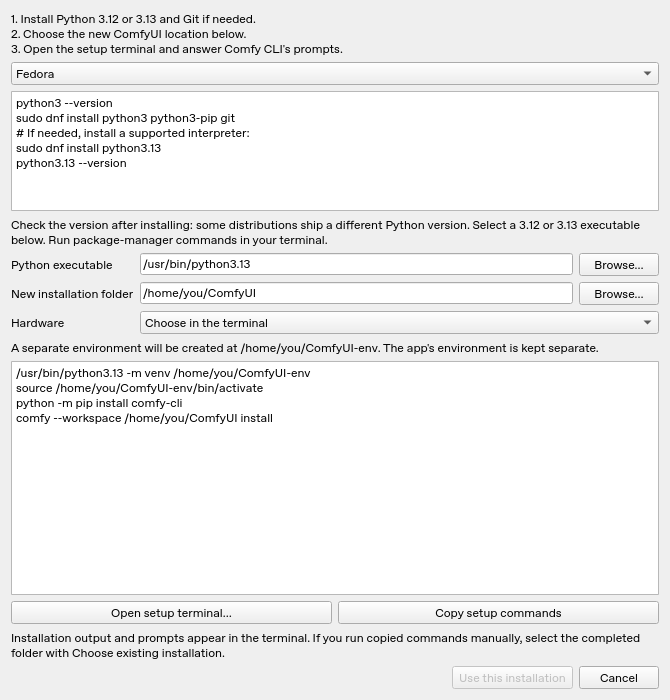
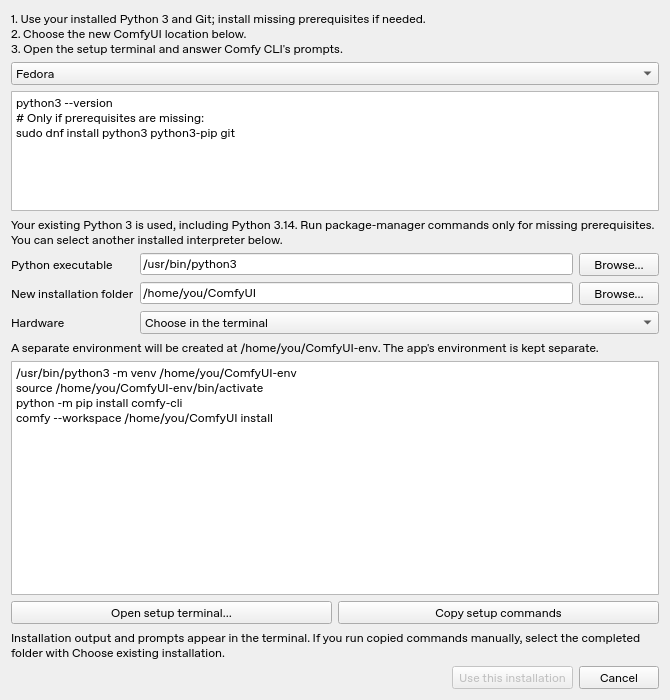
Reuse installed Python 3 including Python 3.14 during setup

diff --git a/comfyui_control/setup.py b/comfyui_control/setup.py
@@ -17,9 +17,9 @@ from .config import Config, config_path, expand
 
 
 PYTHON_COMMANDS = {
-    "Fedora": "python3 --version\nsudo dnf install python3 python3-pip git\n# If needed, install a supported interpreter:\nsudo dnf install python3.13\npython3.13 --version",
-    "Ubuntu / Debian": "python3 --version\nsudo apt update\nsudo apt install python3 python3-pip python3-venv git -y",
-    "Arch Linux": "python3 --version\nsudo pacman -S python python-pip git",
+    "Fedora": "python3 --version\n# Only if prerequisites are missing:\nsudo dnf install python3 python3-pip git",
+    "Ubuntu / Debian": "python3 --version\n# Only if prerequisites are missing:\nsudo apt update\nsudo apt install python3 python3-pip python3-venv git -y",
+    "Arch Linux": "python3 --version\n# Only if prerequisites are missing:\nsudo pacman -S python python-pip git",
 }
 
 
@@ -41,7 +41,7 @@ class InstallPlan:
         if self.environment.exists() or self.environment.is_symlink():
             raise ValueError("The companion environment folder already exists. Choose another installation folder name.")
         if not self.python.strip() or not shutil.which(self.python):
-            raise ValueError("Select an installed Python 3.12 or 3.13 executable. See the Python installation commands above.")
+            raise ValueError("Select an installed Python 3 executable. Use the package commands above if Python is missing.")
         if self.gpu not in ("", "--nvidia", "--amd", "--cpu"):
             raise ValueError("Unknown GPU installation option.")
 
@@ -62,7 +62,7 @@ class InstallPlan:
             f"SETUP_PYTHON={shlex.quote(self.python)}\n"
             f"SETUP_RESULT={shlex.quote(str(result_path))}\n\n"
             '"$SETUP_PYTHON" -c \'import sys; print(sys.version); '
-            'sys.exit(0 if sys.version_info[:2] in ((3, 12), (3, 13)) else "Select Python 3.12 or 3.13 and retry.")\'\n'
+            'sys.exit(0 if sys.version_info[0] == 3 else "Select a Python 3 executable and retry.")\'\n'
             'command -v git >/dev/null || { echo "Install Git with your distribution package manager first." >&2; exit 1; }\n'
             'if [[ -e "$COMFYUI_DIR" || -L "$COMFYUI_DIR" || -e "$COMFY_ENV" || -L "$COMFY_ENV" ]]; then\n'
             '  echo "Installation or environment folder already exists. Choose a new location." >&2\n'
@@ -131,7 +131,7 @@ class InstallDialog(QDialog):
         self.result_path = None
         self.script_path = None
         layout = QVBoxLayout(self)
-        introduction = QLabel("1. Install Python 3.12 or 3.13 and Git if needed.\n2. Choose the new ComfyUI location below.\n3. Open the setup terminal and answer Comfy CLI's prompts.")
+        introduction = QLabel("1. Use your installed Python 3 and Git; install missing prerequisites if needed.\n2. Choose the new ComfyUI location below.\n3. Open the setup terminal and answer Comfy CLI's prompts.")
         introduction.setWordWrap(True)
         layout.addWidget(introduction)
         self.distro = QComboBox()
@@ -141,11 +141,11 @@ class InstallDialog(QDialog):
         self.package_commands.setReadOnly(True)
         self.package_commands.setMaximumHeight(120)
         layout.addWidget(self.package_commands)
-        note = QLabel("Check the version after installing: some distributions ship a different Python version. Select a 3.12 or 3.13 executable below. Run package-manager commands in your terminal.")
+        note = QLabel("Your existing Python 3 is used, including Python 3.14. Run package-manager commands only for missing prerequisites. You can select another installed interpreter below.")
         note.setWordWrap(True)
         layout.addWidget(note)
         form = QFormLayout()
-        self.python = QLineEdit(shutil.which("python3.13") or shutil.which("python3.12") or "python3")
+        self.python = QLineEdit(shutil.which("python3") or "python3")
         self.location = QLineEdit(str(Path.home() / "ComfyUI"))
         self.location.setPlaceholderText("New ComfyUI installation folder")
         self.gpu = QComboBox()
@@ -201,7 +201,7 @@ class InstallDialog(QDialog):
         return row
 
     def _browse_python(self):
-        path, _ = QFileDialog.getOpenFileName(self, "Select Python 3.12 or 3.13 executable", "/usr/bin")
+        path, _ = QFileDialog.getOpenFileName(self, "Select installed Python 3 executable", "/usr/bin")
         if path:
             self.python.setText(path)
 

diff --git a/tests/test_setup.py b/tests/test_setup.py
@@ -13,12 +13,16 @@ from comfyui_control.setup import InstallDialog, InstallPlan, PYTHON_COMMANDS, W
 
 @pytest.fixture
 def fake_python(tmp_path):
-    executable = tmp_path / "python3.13"
+    executable = tmp_path / "python3"
     executable.write_text(
         f"#!{sys.executable}\n"
         "import json, os, pathlib, shlex, shutil, sys\n"
         "args = sys.argv[1:]\n"
-        "if args[:2] == ['-m', 'venv']:\n"
+        "if args[:1] == ['-c']:\n"
+        "    sys.version = '3.14.8 (simulated interpreter)'\n"
+        "    sys.version_info = (3, 14, 8)\n"
+        "    exec(args[1])\n"
+        "elif args[:2] == ['-m', 'venv']:\n"
         "    env = pathlib.Path(args[2])\n"
         "    (env / 'bin').mkdir(parents=True)\n"
         "    for name in ('python', 'comfy'):\n"
@@ -46,7 +50,7 @@ def fake_python(tmp_path):
     return executable
 
 
-def test_setup_runs_venv_pip_and_comfy_at_chosen_location(tmp_path, fake_python):
+def test_setup_accepts_python314_and_runs_venv_pip_and_comfy(tmp_path, fake_python):
     target = tmp_path / "Folder with 'quotes' $dollars `backticks`"
     plan = InstallPlan(target, str(fake_python), "--amd")
     plan.validate()
@@ -54,7 +58,8 @@ def test_setup_runs_venv_pip_and_comfy_at_chosen_location(tmp_path, fake_python)
     script = tmp_path / "setup.sh"
     script.write_text(plan.script(result_path))
     subprocess.run(["bash", "-n", str(script)], check=True)
-    subprocess.run(["bash", str(script)], check=True, capture_output=True, text=True)
+    completed = subprocess.run(["bash", str(script)], check=True, capture_output=True, text=True)
+    assert "3.14.8" in completed.stdout
     assert (target / "main.py").is_file()
     assert plan.environment.parent == target.parent
     assert not plan.environment.is_relative_to(target)
@@ -80,9 +85,9 @@ def test_setup_refuses_existing_installation_without_touching_it(tmp_path, fake_
     assert not result.exists()
 
 
-def test_unsupported_python_stops_before_creating_folders(tmp_path):
+def test_python2_stops_before_creating_folders(tmp_path):
     executable = tmp_path / "python3"
-    executable.write_text("#!/bin/sh\necho 'Select Python 3.12 or 3.13' >&2\nexit 1\n")
+    executable.write_text(f"#!{sys.executable}\nimport sys\nsys.version = '2.7.18'\nsys.version_info = (2, 7, 18)\nexec(sys.argv[2])\n")
     executable.chmod(0o700)
     plan = InstallPlan(tmp_path / "ComfyUI", str(executable))
     result = tmp_path / "result.json"
@@ -157,3 +162,12 @@ def test_distro_instructions_include_fedora_dnf(app):
     assert "sudo dnf install" in dialog.package_commands.toPlainText()
     dialog.distro.setCurrentText("Arch Linux")
     assert "sudo pacman" in dialog.package_commands.toPlainText()
+
+
+def test_setup_prefers_existing_python3_over_version_specific_interpreters(app):
+    def which(name):
+        return {"python3": "/usr/bin/python3", "python3.13": "/usr/bin/python3.13"}.get(name)
+    with patch("comfyui_control.setup.shutil.which", side_effect=which):
+        dialog = InstallDialog()
+    assert dialog.python.text() == "/usr/bin/python3"
+    assert "python3.13" not in dialog.package_commands.toPlainText()

diff --git a/README.md b/README.md
@@ -47,19 +47,18 @@ Keep your existing environment activation and flags if you already have them. `e
 
 ### Install a new ComfyUI with Comfy CLI
 
-The startup installer shows Python commands for Fedora, Ubuntu/Debian, and Arch Linux. Its workflow uses **Python 3.12 or 3.13**; check the version before continuing:
+The startup installer reuses your **installed Python 3**, including Python 3.14. It preselects `python3` from your PATH. Check the version if needed:
 
 ```bash
 python3 --version
 ```
 
+Run the following package commands only if prerequisites are missing. Existing, working installations can be selected directly in the startup dialog.
+
 Fedora:
 
 ```bash
 sudo dnf install python3 python3-pip git
-# If the distribution's default Python is not 3.12 or 3.13:
-sudo dnf install python3.13
-python3.13 --version
 ```
 
 Ubuntu/Debian:
@@ -75,7 +74,7 @@ Arch Linux:
 sudo pacman -S python python-pip git
 ```
 
-Distribution defaults vary. If the installed `python3` is a different version, install a supported interpreter for your distribution and select its executable in the installer. Package-manager commands are shown for you to run in your terminal; the app does not run sudo itself.
+You can select another installed Python executable if needed for your environment. Package-manager commands are shown for missing prerequisites; the app does not run sudo itself. Comfy CLI and package installers report their own dependency requirements in the terminal.
 
 Choose a **new installation folder**, select the Python executable, and optionally choose NVIDIA, AMD/ROCm, or CPU. **Open setup terminal…** opens Konsole (or another available terminal) and runs a visible setup script. Comfy CLI can ask questions there, including hardware selection when none was selected in the dialog.
 
